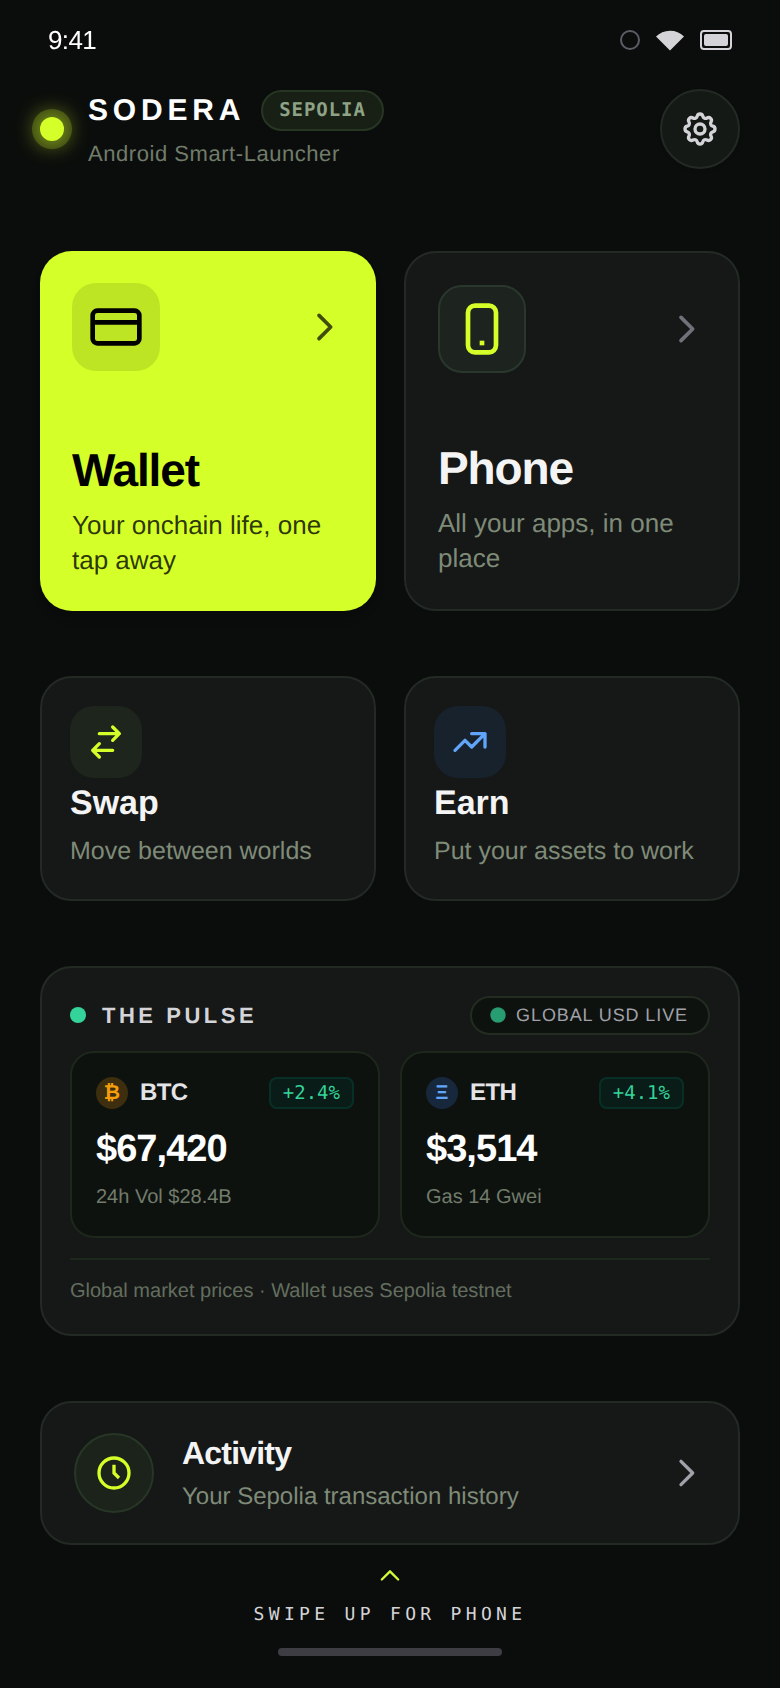
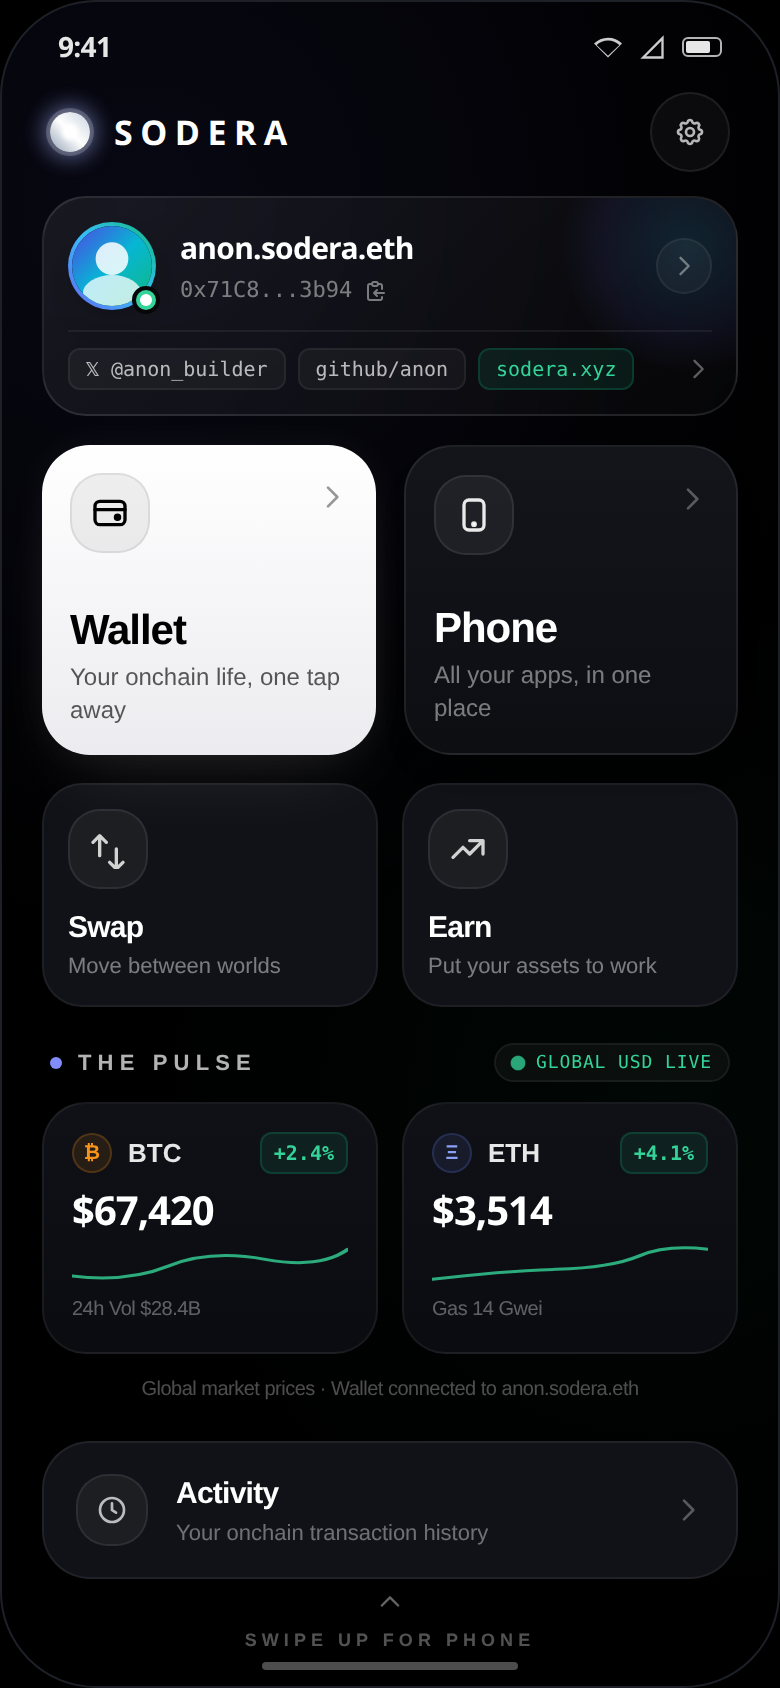
docs: add final launcher design system

diff --git a/docs/DESIGN.md b/docs/DESIGN.md
@@ -1,0 +1,208 @@
+---
+name: Platinum Fluid
+colors:
+  surface: '#121318'
+  surface-dim: '#121318'
+  surface-bright: '#38393f'
+  surface-container-lowest: '#0d0e13'
+  surface-container-low: '#1a1b21'
+  surface-container: '#1e1f25'
+  surface-container-high: '#292a2f'
+  surface-container-highest: '#34343a'
+  on-surface: '#e3e1e9'
+  on-surface-variant: '#c4c7c9'
+  inverse-surface: '#e3e1e9'
+  inverse-on-surface: '#2f3036'
+  outline: '#8e9193'
+  outline-variant: '#444749'
+  surface-tint: '#c5c6c8'
+  primary: '#ffffff'
+  on-primary: '#2e3132'
+  primary-container: '#e1e2e4'
+  on-primary-container: '#626566'
+  inverse-primary: '#5c5f60'
+  secondary: '#4edea3'
+  on-secondary: '#003824'
+  secondary-container: '#00a572'
+  on-secondary-container: '#00311f'
+  tertiary: '#ffffff'
+  on-tertiary: '#00354a'
+  tertiary-container: '#c4e7ff'
+  on-tertiary-container: '#006c93'
+  error: '#ffb4ab'
+  on-error: '#690005'
+  error-container: '#93000a'
+  on-error-container: '#ffdad6'
+  primary-fixed: '#e1e2e4'
+  primary-fixed-dim: '#c5c6c8'
+  on-primary-fixed: '#191c1e'
+  on-primary-fixed-variant: '#444749'
+  secondary-fixed: '#6ffbbe'
+  secondary-fixed-dim: '#4edea3'
+  on-secondary-fixed: '#002113'
+  on-secondary-fixed-variant: '#005236'
+  tertiary-fixed: '#c4e7ff'
+  tertiary-fixed-dim: '#7bd0ff'
+  on-tertiary-fixed: '#001e2c'
+  on-tertiary-fixed-variant: '#004c69'
+  background: '#121318'
+  on-background: '#e3e1e9'
+  surface-variant: '#34343a'
+typography:
+  headline-xl:
+    fontFamily: Geist
+    fontSize: 36px
+    fontWeight: '600'
+    lineHeight: 44px
+    letterSpacing: -0.03em
+  headline-xl-mobile:
+    fontFamily: Geist
+    fontSize: 28px
+    fontWeight: '600'
+    lineHeight: 34px
+    letterSpacing: -0.025em
+  headline-lg:
+    fontFamily: Geist
+    fontSize: 24px
+    fontWeight: '600'
+    lineHeight: 32px
+    letterSpacing: -0.02em
+  headline-sm:
+    fontFamily: Geist
+    fontSize: 18px
+    fontWeight: '500'
+    lineHeight: 24px
+    letterSpacing: -0.015em
+  body-lg:
+    fontFamily: Geist
+    fontSize: 16px
+    fontWeight: '400'
+    lineHeight: 24px
+    letterSpacing: -0.01em
+  body-md:
+    fontFamily: Geist
+    fontSize: 14px
+    fontWeight: '400'
+    lineHeight: 20px
+    letterSpacing: 0em
+  body-sm:
+    fontFamily: Geist
+    fontSize: 12px
+    fontWeight: '400'
+    lineHeight: 16px
+    letterSpacing: 0.01em
+  label-lg:
+    fontFamily: JetBrains Mono
+    fontSize: 13px
+    fontWeight: '500'
+    lineHeight: 18px
+    letterSpacing: -0.01em
+  label-md:
+    fontFamily: JetBrains Mono
+    fontSize: 11px
+    fontWeight: '500'
+    lineHeight: 14px
+    letterSpacing: 0.02em
+  label-sm:
+    fontFamily: JetBrains Mono
+    fontSize: 10px
+    fontWeight: '400'
+    lineHeight: 12px
+    letterSpacing: 0.04em
+rounded:
+  sm: 0.25rem
+  DEFAULT: 0.5rem
+  md: 0.75rem
+  lg: 1rem
+  xl: 1.5rem
+  full: 9999px
+spacing:
+  gutter: 0.75rem
+  gutter-tablet: 1rem
+  margin: 1rem
+  margin-tablet: 1.5rem
+  space-xs: 0.25rem
+  space-sm: 0.5rem
+  space-md: 0.75rem
+  space-lg: 1rem
+  space-xl: 1.5rem
+---
+
+## Brand & Style
+The design system manifests an ultra-refined, futuristic mobile operating surface engineered for power users and onchain natives. It dissolves the friction between daily smartphone utility and decentralized technology, transforming the primary home surface into an ambient, context-aware command center.
+
+The aesthetic philosophy centers on **Platinum Fluid Minimalist**: deep astronomical voids punctuated by cold platinum luminescence, ethereal optics, and sub-pixel structural borders. The interface avoids loud skeumorphic mimicry in favor of precise optical materials—translucent frosted membranes, atmospheric cyan-emerald radial fields, and micro-precision typography. The emotional posture is calm, authoritative, high-bandwidth, and relentlessly modern.
+
+## Colors
+The palette leverages high-contrast luminescence over an abyss of obsidian and titanium shades.
+
+- **Canvas Foundation**: Pure Obsidian Void (`#090A0F`, `#0D0E14`) provides infinite visual depth, saving battery life on OLED displays and serving as the darkroom canvas.
+- **Surface Elevation**: Dark Titanium (`#12131C`, `#181926`) structures content tiers, overlaid with ultra-sheer white alpha values (`rgba(255, 255, 255, 0.04)` to `0.07`).
+- **Primary Luminescence**: Platinum White (`#FFFFFF`, `#F4F5F7`) commands focal attention, used for high-tier titles, vital figures, and primary gesture points.
+- **Telemetry & Status**: Emerald (`#10B981`) signifies onchain node connectivity, gas equilibrium, and verified block sync; Mint (`#34D399`) tracks positive financial deltas and live sparkline vectors.
+- **Network Resonance**: Cyan / Electric Blue (`#38BDF8`) provides secondary telemetry for cryptographic links, identity verification rings, and network metadata.
+- **Typographic Scale**: Pure White (`#FFFFFF`) for primary titles, Silver Slate (`#94A3B8`) for navigational labels, and Muted Zinc (`#64748B`) for cryptographic hashes and inactive indicators.
+
+## Typography
+Typographic rhythm is established through a strict dual-engine system:
+
+1. **Primary Neo-Grotesque (`Geist`)**: Deployed for human-facing copy, system metrics, primary titles, and navigation labels. It offers geometric neutrality with condensed tracking for tight mobile constraints.
+2. **Cryptographic Monospace (`JetBrains Mono`)**: Deployed for raw data fidelity—ENS handles, checksum contract addresses, gas prices (Gwei), and live pricing sparkline overlays.
+
+All uppercase labels utilize increased tracking (+0.02em to +0.04em) to preserve optical balance against frosted dark backgrounds. Numerical data points must enable tabular figures (`tnum`) to eliminate layout jitter during high-frequency live stream re-renders.
+
+## Layout & Spacing
+The layout follows a fluid columnar architecture engineered for single-handed thumb-reach zones within native Android launcher contexts:
+
+- **Mobile Rhythm**: A responsive 4-column grid spanning an outer margin of `1rem` (16px) with dynamic gutters of `0.75rem` (12px). Quick-action operational modules are locked to the lower two-thirds of the viewport.
+- **Tablet Reflow**: Expands to an 8-column layout with `1.5rem` margins, allowing secondary telemetry modules (Market Pulse & Gas Trackers) to sit parallel to the Identity Card rather than stacking vertically.
+- **Safe Area Protocol**: Strictly adheres to Android gesture navigation bars (accommodating the 24px bottom buffer) and edge-to-edge camera cutouts via dynamic padding.
+
+## Elevation & Depth
+Depth is created through optical physics rather than heavy drop shadows:
+
+- **Surface Translucency**: Cards use frosted acrylic layers composed of `rgba(255, 255, 255, 0.04)` to `rgba(255, 255, 255, 0.07)` background blends combined with hardware-accelerated `backdrop-filter: blur(20px) saturate(180%)`.
+- **Specular Ghost Borders**: Boundaries are marked by a crisp 1px perimeter using `rgba(255, 255, 255, 0.08)`. For focused or active states, the top border edge catches light at `rgba(255, 255, 255, 0.20)`, simulating an overhead ambient rim light.
+- **Diffused Radial Glows**: Interactive elements project soft background luminescence:
+  - System ambient: `radial-gradient(circle at 50% 0%, rgba(56, 189, 248, 0.08), transparent 70%)`
+  - Active nodes: `0 0 24px rgba(16, 185, 129, 0.15)`
+- **Elevation Layers**:
+  - `Level 0 (Canvas)`: Flat obsidian void.
+  - `Level 1 (Dock & Tiles)`: 4% white opacity, 12px blur, 1px border.
+  - `Level 2 (Identity & Market Cards)`: 7% white opacity, 20px blur, 1px top-lit border.
+  - `Level 3 (Modals & Overlays)`: 12% white opacity, 32px blur, 1px border with `0 16px 40px rgba(0, 0, 0, 0.6)`.
+
+## Shapes
+A unified rounded geometry (`roundedness: 2`) introduces a friendly yet technological presence:
+
+- **Base Radius (0.5rem / 8px)**: Micro tags, network pills, copy-address badges, and inline status chips.
+- **Large Radius (1rem / 16px)**: Action tiles, market cards, and search inputs.
+- **Extra Large Radius (1.5rem / 24px)**: Hero ENS Social Identity Container and system dock wrappers.
+- **Full Radius (9999px)**: Avatar rings, active presence dots, live network toggles, and Android gesture affordance bars.
+
+## Components
+
+### App Header
+- Single horizontal bar displaying the platform signature mark alongside an interactive glowing ambient orb.
+- Right-aligned tactile gear action button housed in a 36x36px circle with frosted background (`rgba(255, 255, 255, 0.05)`) and micro-hover scaling.
+
+### ENS Social Identity Card
+- **Container**: `rounded-xl` card built with Level 2 glass depth, 16px inner padding.
+- **Avatar Unit**: 48x48px circle framed by an electric blue to emerald gradient ring (`linear-gradient(135deg, #38BDF8, #10B981)`). Includes a 10px absolute-positioned Emerald presence dot indicating onchain sync.
+- **Identity Stack**: Displays the primary ENS name in `headline-sm` (`#FFFFFF`), paired with a copyable truncated address (`0x...`) in `label-sm` monospace (`#64748B`).
+- **Social Chips**: Inline horizontal cluster of pill tags (`#` tags for X, GitHub, Web) utilizing `space-xs` padding, rendering icons in silver slate (`#94A3B8`).
+
+### Action Grid
+- 2-column tactical touch matrix (`gutter: 0.75rem`).
+- **Tiles**: 16px padding with internal frosted icon reservoirs (32x32px squircle).
+- **Feedback**: Active press states depress slightly (`scale(0.98)`) and trigger an inner glow highlight (`rgba(255, 255, 255, 0.12)`).
+
+### Market Pulse Cards
+- Live token rows housing 3 key zones:
+  - Left: Token glyph with symbol in `body-md` bold and protocol name in `body-sm` muted zinc.
+  - Center: Vector sparkline SVG (2px stroke) in Mint Green (`#34D399`) for positive runs or Muted Red (`#F43F5E`) for corrections.
+  - Right: Ticker price in `label-lg` tabular monospace with an inline pill badge stating the 24h percentage delta.
+
+### Gesture Pill Affordances (Launcher UX)
+- Bottom-docked swipe-up affordance for accessing the traditional app drawer.
+- Employs a centered, low-contrast platinum bar (36x4px) paired with an upward chevron icon, responding to vertical inertia gestures with fluid spring kinetics.
